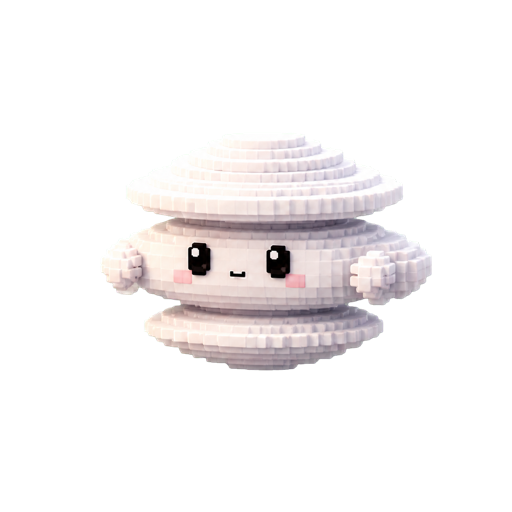
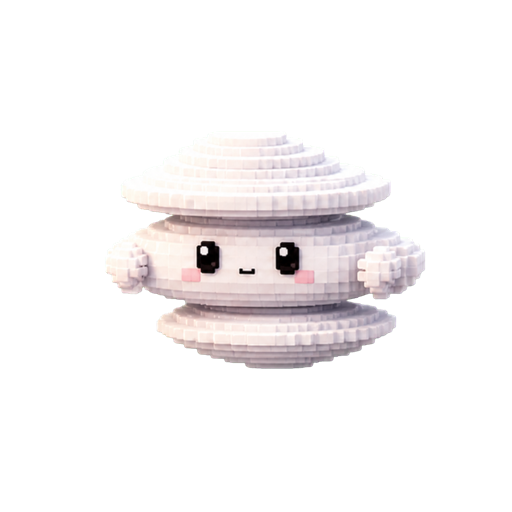
fix: refine lenticular idle motion

Changed region(s): [[0.1875, 0.25, 0.8438, 0.75]]

diff --git a/Tests/PetsCoreTests/Pets/PetArtResourceTests.swift b/Tests/PetsCoreTests/Pets/PetArtResourceTests.swift
@@ -120,10 +120,52 @@ struct PetArtResourceTests {
         ))
         context.setFillColor(NSColor.white.cgColor)
         context.fill(CGRect(x: 8, y: 9, width: 6, height: 5))
-        context.fill(CGRect(x: 0, y: 0, width: 2, height: 1))
+        context.fill(CGRect(x: 0, y: 0, width: 2, height: 4))
 
         let image = try #require(context.makeImage())
         #expect(alphaBounds(in: image) == CGRect(x: 8, y: 18, width: 6, height: 5))
+    }
+
+    @Test
+    func alphaBoundsIncludeSubstantiveDetachedFeatures() throws {
+        let context = try #require(CGContext(
+            data: nil,
+            width: 32,
+            height: 32,
+            bitsPerComponent: 8,
+            bytesPerRow: 32 * 4,
+            space: CGColorSpaceCreateDeviceRGB(),
+            bitmapInfo: CGImageAlphaInfo.premultipliedLast.rawValue
+        ))
+        context.setFillColor(NSColor.white.cgColor)
+        context.fill(CGRect(x: 8, y: 9, width: 6, height: 5))
+        context.fill(CGRect(x: 24, y: 12, width: 4, height: 4))
+
+        let image = try #require(context.makeImage())
+        #expect(alphaBounds(in: image) == CGRect(x: 8, y: 16, width: 20, height: 7))
+    }
+
+    @Test
+    func lenticularEarlyHoverBandsMoveOppositelyAndPeakDeepens() throws {
+        let definition = try #require(PetCatalog.definition(for: .lenticularCloud))
+        guard case let .assetPack(pack) = definition.renderSource else {
+            Issue.record("Lenticular must use an asset pack")
+            return
+        }
+        let images = try pack.idle.frames.prefix(3).map { frame -> CGImage in
+            let url = try #require(PetArtResourceLocator.url(for: frame))
+            let source = try #require(CGImageSourceCreateWithURL(url as CFURL, nil))
+            return try #require(CGImageSourceCreateImageAtIndex(source, 0, nil))
+        }
+        let canonical = try #require(lenticularBandSample(in: images[0]))
+        let earlyHover = try #require(lenticularBandSample(in: images[1]))
+        let peak = try #require(lenticularBandSample(in: images[2]))
+
+        #expect(earlyHover.upperMidX <= canonical.upperMidX - 4)
+        #expect(earlyHover.lowerMidX >= canonical.lowerMidX + 4)
+        #expect(peak.upperMidX <= earlyHover.upperMidX - 0.25)
+        #expect(peak.lowerMidX >= earlyHover.lowerMidX + 1)
+        #expect(peak.bounds.midY < earlyHover.bounds.midY)
     }
 
     private func assertCompleteIdleLoop(petID: PetID) throws {
@@ -141,6 +183,48 @@ struct PetArtResourceTests {
     }
 
     private func alphaBounds(in image: CGImage) -> CGRect? {
+        let pixels = substantiveAlphaPixels(in: image)
+        guard let first = pixels.first else { return nil }
+        var minX = first.x
+        var maxX = first.x
+        var minY = first.y
+        var maxY = first.y
+        for pixel in pixels.dropFirst() {
+            minX = min(minX, pixel.x)
+            maxX = max(maxX, pixel.x)
+            minY = min(minY, pixel.y)
+            maxY = max(maxY, pixel.y)
+        }
+        return CGRect(
+            x: minX,
+            y: minY,
+            width: maxX - minX + 1,
+            height: maxY - minY + 1
+        )
+    }
+
+    private func lenticularBandSample(
+        in image: CGImage
+    ) -> (upperMidX: CGFloat, lowerMidX: CGFloat, bounds: CGRect)? {
+        let pixels = substantiveAlphaPixels(in: image)
+        guard let bounds = alphaBounds(in: image) else { return nil }
+
+        // Relative crops remain stable as the character rises and its silhouette breathes:
+        // the top 40% isolates the cap assembly, while the bottom 28% isolates the base.
+        let upperLimit = bounds.minY + bounds.height * 0.40
+        let lowerLimit = bounds.maxY - bounds.height * 0.28
+        let upper = pixels.filter { CGFloat($0.y) < upperLimit }
+        let lower = pixels.filter { CGFloat($0.y) >= lowerLimit }
+        guard !upper.isEmpty, !lower.isEmpty else { return nil }
+
+        return (
+            upperMidX: upper.reduce(CGFloat.zero) { $0 + CGFloat($1.x) } / CGFloat(upper.count),
+            lowerMidX: lower.reduce(CGFloat.zero) { $0 + CGFloat($1.x) } / CGFloat(lower.count),
+            bounds: bounds
+        )
+    }
+
+    private func substantiveAlphaPixels(in image: CGImage) -> [(x: Int, y: Int)] {
         let bitmap = NSBitmapImageRep(cgImage: image)
         let width = image.width
         let height = image.height
@@ -152,26 +236,23 @@ struct PetArtResourceTests {
         }
 
         var visited = [Bool](repeating: false, count: occupied.count)
-        var largest: (pixelCount: Int, bounds: CGRect)?
+        var substantivePixels: [(x: Int, y: Int)] = []
+
+        // Ignore only tiny extraction noise while retaining detached sprite details such as
+        // raindrops. Sixteen occupied pixels is above Lenticular's 8-pixel speck and far
+        // below Nimbus's smallest legitimate detached weather component (223 pixels).
+        let minimumSubstantiveComponentPixels = 16
 
         for start in occupied.indices where occupied[start] && !visited[start] {
             var queue = [start]
             var cursor = 0
             visited[start] = true
-            var minX = start % width
-            var maxX = minX
-            var minY = start / width
-            var maxY = minY
 
             while cursor < queue.count {
                 let index = queue[cursor]
                 cursor += 1
                 let x = index % width
                 let y = index / width
-                minX = min(minX, x)
-                maxX = max(maxX, x)
-                minY = min(minY, y)
-                maxY = max(maxY, y)
 
                 for neighborY in max(0, y - 1)...min(height - 1, y + 1) {
                     for neighborX in max(0, x - 1)...min(width - 1, x + 1) {
@@ -184,17 +265,11 @@ struct PetArtResourceTests {
                 }
             }
 
-            let bounds = CGRect(
-                x: minX,
-                y: minY,
-                width: maxX - minX + 1,
-                height: maxY - minY + 1
-            )
-            if queue.count > (largest?.pixelCount ?? 0) {
-                largest = (queue.count, bounds)
+            if queue.count >= minimumSubstantiveComponentPixels {
+                substantivePixels.append(contentsOf: queue.map { ($0 % width, $0 / width) })
             }
         }
 
-        return largest?.bounds
+        return substantivePixels
     }
 }